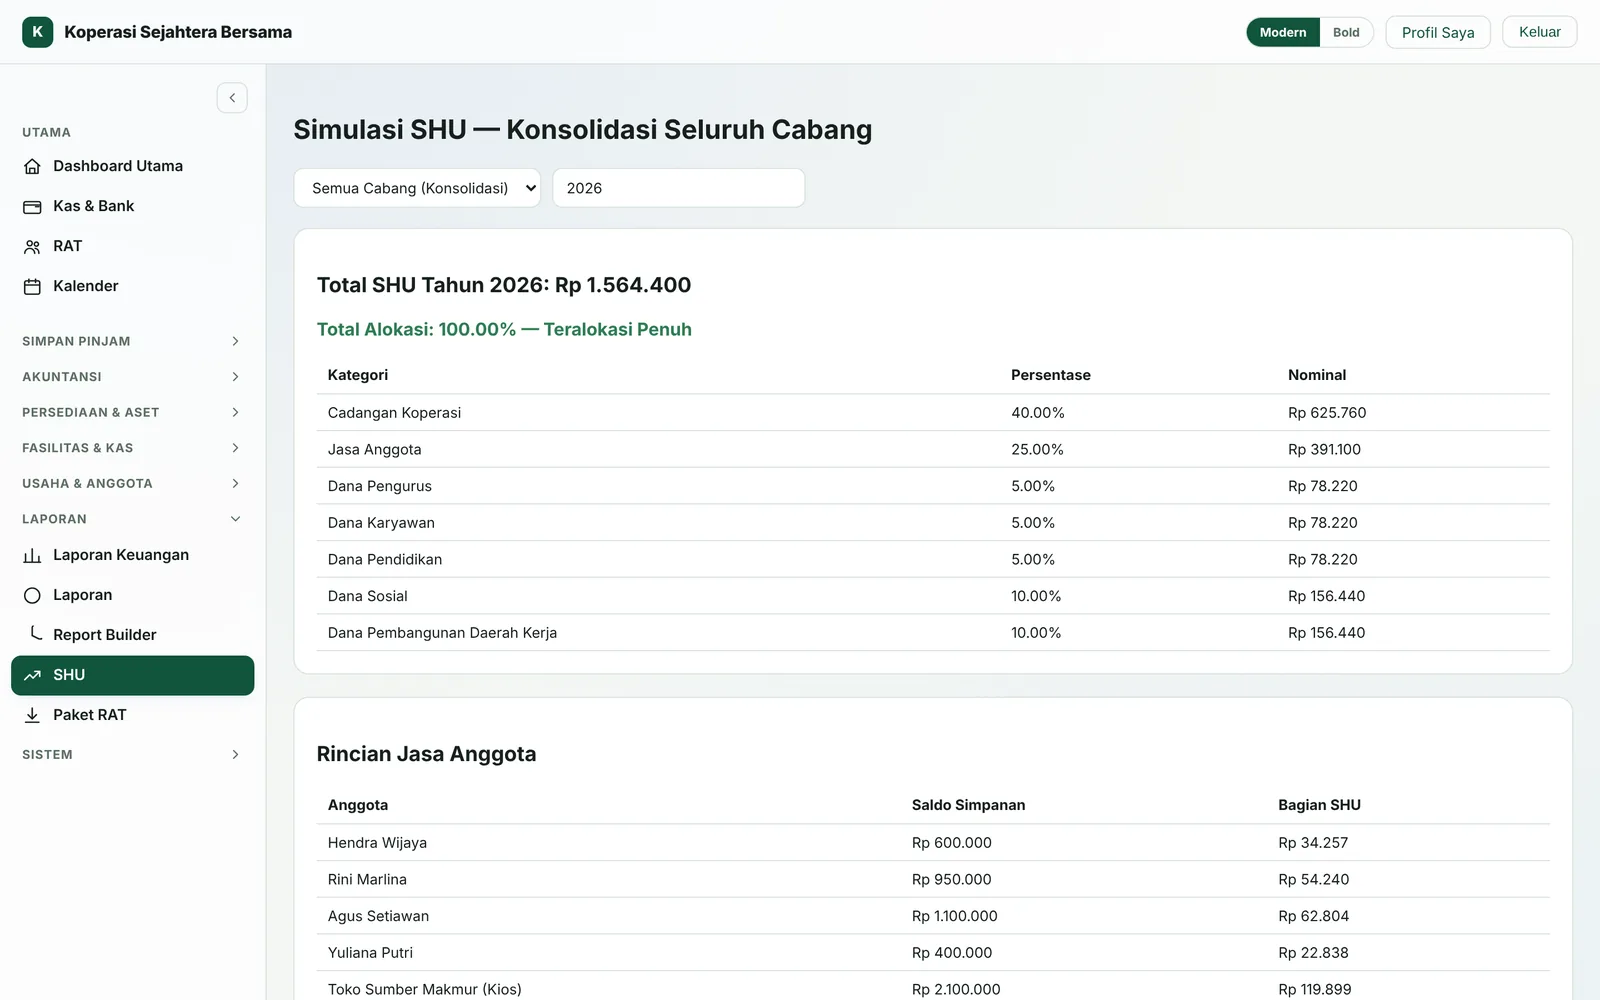
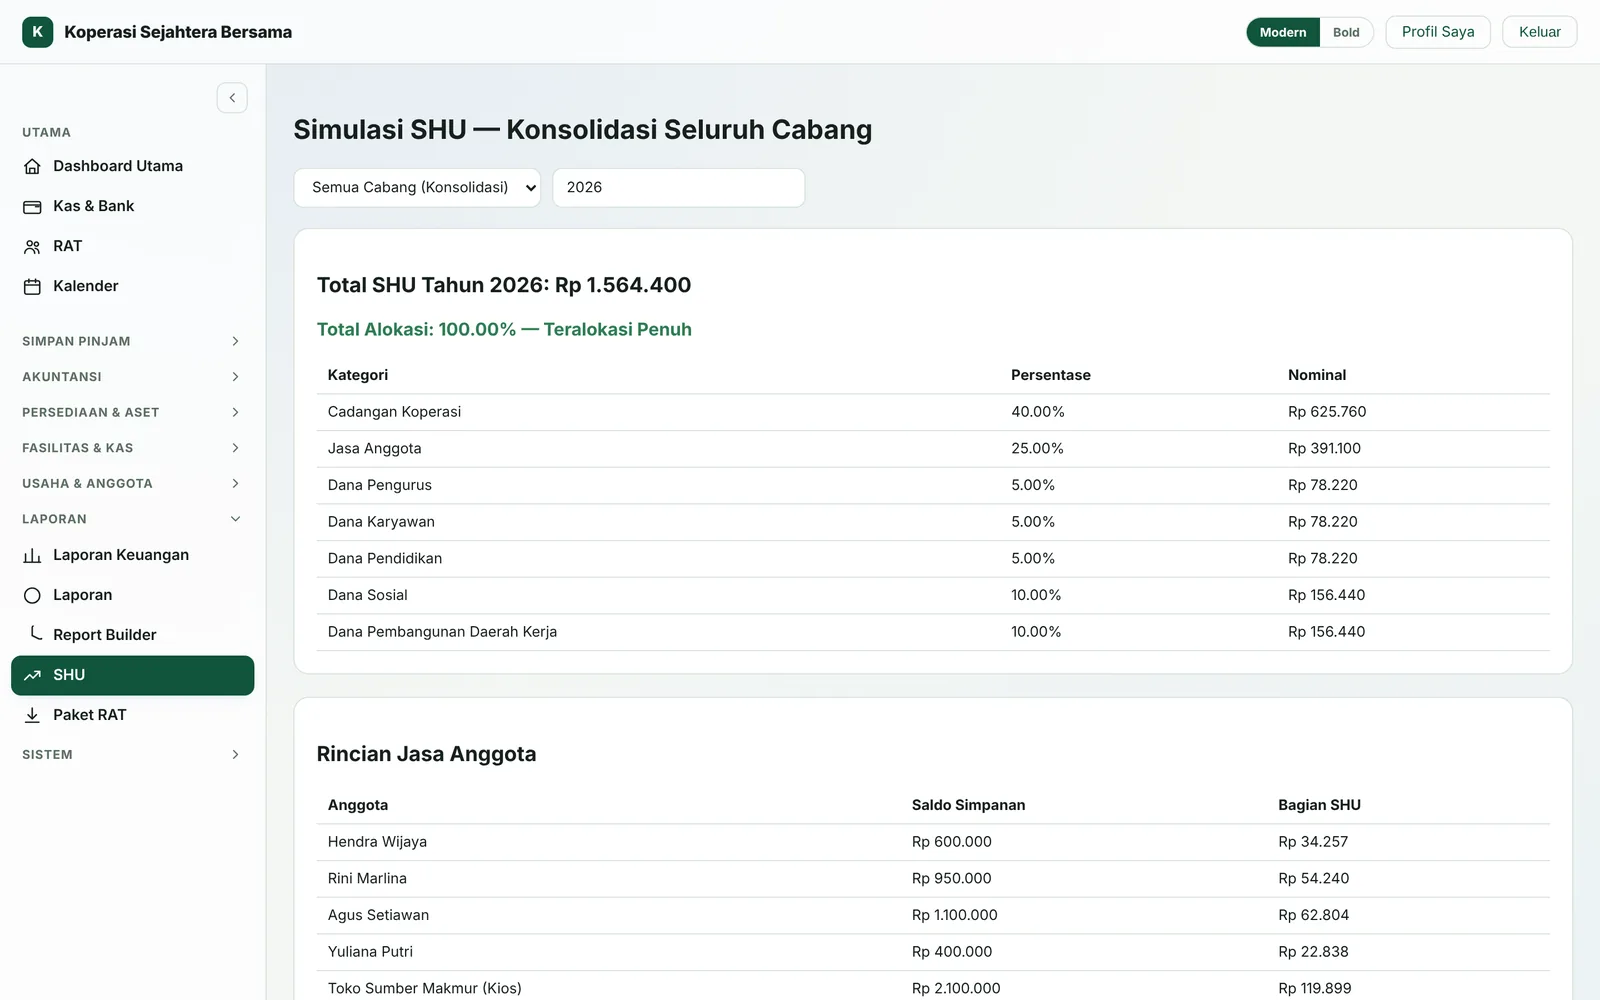
Landing page: fokus SEO ke 'aplikasi koperasi simpan pinjam berbasis website'
Judul, H1, meta, Open Graph, JSON-LD dan FAQ diarahkan ke kata kunci
utama. Tangkapan layar diambil ulang tanpa footer merek aplikasi dan
gambar OG diperbarui.

Claude-Session: https://claude.ai/code/session_01KqfbCWw2v6HtJHjvUtXGhR

diff --git a/landing-page/index.html b/landing-page/index.html
@@ -3,9 +3,9 @@
 <head>
 <meta charset="utf-8">
 <meta name="viewport" content="width=device-width, initial-scale=1">
-<title>Aplikasi Koperasi Simpan Pinjam &amp; Serba Usaha | Semesta Teknologi Utama</title>
-<meta name="description" content="Aplikasi koperasi simpan pinjam (KSP) dan serba usaha berbasis web: simpanan, pinjaman &amp; angsuran, kasir POS, akuntansi otomatis, SHU, paket RAT, portal anggota online dan notifikasi WhatsApp.">
-<meta name="keywords" content="aplikasi koperasi, aplikasi koperasi simpan pinjam, software koperasi, sistem informasi koperasi, aplikasi KSP, aplikasi koperasi serba usaha, aplikasi akuntansi koperasi, aplikasi SHU koperasi, aplikasi RAT koperasi, aplikasi koperasi online">
+<title>Aplikasi Koperasi Simpan Pinjam Berbasis Website &amp; Online</title>
+<meta name="description" content="Aplikasi koperasi simpan pinjam berbasis website untuk KSP dan koperasi serba usaha: simpanan, pinjaman &amp; angsuran, kasir POS, akuntansi otomatis, SHU, RAT, dan portal anggota online. Cukup buka di browser.">
+<meta name="keywords" content="aplikasi koperasi simpan pinjam, aplikasi koperasi simpan pinjam website, aplikasi koperasi simpan pinjam berbasis web, aplikasi koperasi simpan pinjam berbasis website, aplikasi koperasi simpan pinjam online, software koperasi simpan pinjam, sistem informasi koperasi simpan pinjam berbasis web, aplikasi koperasi, software koperasi, sistem informasi koperasi, aplikasi KSP, aplikasi koperasi serba usaha, aplikasi akuntansi koperasi, aplikasi SHU koperasi, aplikasi RAT koperasi, aplikasi koperasi online">
 <meta name="robots" content="index, follow, max-image-preview:large, max-snippet:-1, max-video-preview:-1">
 <meta name="googlebot" content="index, follow">
 <meta name="author" content="Semesta Teknologi Utama">
@@ -18,17 +18,17 @@
 
 <meta property="og:type" content="website">
 <meta property="og:locale" content="id_ID">
-<meta property="og:site_name" content="Aplikasi Koperasi Simpan Pinjam">
-<meta property="og:title" content="Aplikasi Koperasi Simpan Pinjam &amp; Serba Usaha">
-<meta property="og:description" content="Kelola simpanan, pinjaman, kasir unit usaha, akuntansi, SHU dan RAT koperasi dalam satu aplikasi web. Anggota bisa cek saldo dan ajukan pinjaman online.">
+<meta property="og:site_name" content="Aplikasi Koperasi Simpan Pinjam Berbasis Website">
+<meta property="og:title" content="Aplikasi Koperasi Simpan Pinjam Berbasis Website">
+<meta property="og:description" content="Aplikasi koperasi simpan pinjam berbasis website: kelola simpanan, pinjaman, kasir unit usaha, akuntansi, SHU dan RAT. Anggota bisa cek saldo dan ajukan pinjaman online.">
 <meta property="og:url" content="https://aplikasikoperasisimpanpinjam.semestateknologiutama.com/">
 <meta property="og:image" content="https://aplikasikoperasisimpanpinjam.semestateknologiutama.com/og-image.png">
 <meta property="og:image:width" content="1200">
 <meta property="og:image:height" content="630">
-<meta property="og:image:alt" content="Aplikasi Koperasi Simpan Pinjam &amp; Serba Usaha">
+<meta property="og:image:alt" content="Aplikasi Koperasi Simpan Pinjam Berbasis Website">
 <meta name="twitter:card" content="summary_large_image">
-<meta name="twitter:title" content="Aplikasi Koperasi Simpan Pinjam &amp; Serba Usaha">
-<meta name="twitter:description" content="Simpanan, pinjaman, POS unit usaha, akuntansi, SHU dan RAT koperasi dalam satu aplikasi web.">
+<meta name="twitter:title" content="Aplikasi Koperasi Simpan Pinjam Berbasis Website">
+<meta name="twitter:description" content="Aplikasi koperasi simpan pinjam berbasis website: simpanan, pinjaman, POS unit usaha, akuntansi, SHU dan RAT dalam satu aplikasi.">
 <meta name="twitter:image" content="https://aplikasikoperasisimpanpinjam.semestateknologiutama.com/og-image.png">
 
 <link rel="icon" href="/favicon.svg" type="image/svg+xml">
@@ -61,13 +61,13 @@
       "@type": "WebSite",
       "@id": "https://aplikasikoperasisimpanpinjam.semestateknologiutama.com/#website",
       "url": "https://aplikasikoperasisimpanpinjam.semestateknologiutama.com/",
-      "name": "Aplikasi Koperasi Simpan Pinjam & Serba Usaha",
+      "name": "Aplikasi Koperasi Simpan Pinjam Berbasis Website",
       "inLanguage": "id-ID",
       "publisher": {"@id": "https://semestateknologiutama.com/#organization"}
     },
     {
       "@type": "SoftwareApplication",
-      "name": "Aplikasi Koperasi Simpan Pinjam & Serba Usaha",
+      "name": "Aplikasi Koperasi Simpan Pinjam Berbasis Website",
       "applicationCategory": "BusinessApplication",
       "applicationSubCategory": "Sistem Informasi Koperasi",
       "operatingSystem": "Web browser",
@@ -80,7 +80,7 @@
         "https://aplikasikoperasisimpanpinjam.semestateknologiutama.com/img/shu.webp",
         "https://aplikasikoperasisimpanpinjam.semestateknologiutama.com/img/pos.webp"
       ],
-      "description": "Aplikasi koperasi simpan pinjam dan serba usaha berbasis web untuk mengelola simpanan, pinjaman, angsuran, kasir POS unit usaha, akuntansi, SHU, RAT dan portal anggota.",
+      "description": "Aplikasi koperasi simpan pinjam berbasis website untuk KSP dan koperasi serba usaha, untuk mengelola simpanan, pinjaman, angsuran, kasir POS unit usaha, akuntansi, SHU, RAT dan portal anggota.",
       "featureList": [
         "Manajemen anggota dan kartu anggota",
         "Simpanan pokok, wajib dan sukarela",
@@ -100,6 +100,8 @@
     {
       "@type": "FAQPage",
       "mainEntity": [
+        {"@type": "Question", "name": "Apa itu aplikasi koperasi simpan pinjam berbasis website?",
+         "acceptedAnswer": {"@type": "Answer", "text": "Aplikasi koperasi simpan pinjam berbasis website adalah sistem pengelolaan koperasi yang dijalankan di server atau hosting dan diakses lewat browser, tanpa perlu memasang program di setiap komputer. Pengurus, teller, kasir, dan anggota cukup login dari browser untuk mencatat simpanan, pinjaman, angsuran, penjualan unit usaha, hingga menyusun laporan keuangan dan SHU."}},
         {"@type": "Question", "name": "Apakah aplikasi ini bisa dipakai koperasi serba usaha (KSU)?",
          "acceptedAnswer": {"@type": "Answer", "text": "Bisa. Selain modul simpan pinjam, aplikasi memiliki modul unit usaha: kasir POS, stok barang, pembelian ke supplier, retur dan laporan persediaan. Semua transaksi unit usaha otomatis tercatat ke jurnal akuntansi koperasi."}},
         {"@type": "Question", "name": "Apakah perlu memasang aplikasi di komputer?",
@@ -152,14 +154,15 @@ header.top{position:sticky;top:0;z-index:50;background:rgba(6,57,42,.92);backdro
 .nav ul a:hover{color:#fff}
 .nav .btn{padding:10px 18px;font-size:14px}
 @media (max-width:900px){.nav ul{display:none}}
-@media (max-width:480px){.nav .btn span{display:none}.nav .btn{padding:10px 12px}}
+@media (max-width:480px){.nav .btn span{display:none}.nav .btn{padding:10px 12px}.logo{font-size:14.5px}.logo-mark{width:34px;height:34px}}
 
 /* hero */
 .hero{background:radial-gradient(1200px 500px at 85% -10%,rgba(242,177,52,.18),transparent 60%),linear-gradient(160deg,var(--green-900),var(--green-700) 70%,var(--green-600));color:#fff;padding:72px 0 96px;overflow:hidden}
 .hero-grid{display:grid;grid-template-columns:.95fr 1.1fr;gap:48px;align-items:center}
 .eyebrow{display:inline-flex;align-items:center;gap:8px;background:rgba(255,255,255,.1);border:1px solid rgba(255,255,255,.2);padding:6px 14px;border-radius:999px;font-size:13px;font-weight:600;color:#e5f5ee;margin-bottom:22px}
 .eyebrow i{width:8px;height:8px;border-radius:50%;background:var(--gold);display:block}
-.hero h1{font-size:clamp(32px,4.6vw,52px);line-height:1.12;font-weight:800;letter-spacing:-.02em;margin-bottom:20px}
+.hero h1{font-size:clamp(32px,4.4vw,52px);line-height:1.1;font-weight:800;letter-spacing:-.02em;margin-bottom:14px}
+.hero .tagline{font-size:clamp(19px,2vw,24px);font-weight:700;color:#fff;margin-bottom:16px}
 .hero h1 em{font-style:normal;color:var(--gold)}
 .hero p.lead{font-size:clamp(16px,1.6vw,19px);color:#d3ece1;max-width:560px;margin-bottom:32px}
 .hero .ctas{display:flex;gap:14px;flex-wrap:wrap}
@@ -285,9 +288,9 @@ footer{background:var(--green-900);color:#a9cfbf;padding:48px 0 28px;font-size:1
 
 <header class="top">
   <div class="wrap nav">
-    <a class="logo" href="/" aria-label="Beranda Aplikasi Koperasi Simpan Pinjam">
+    <a class="logo" href="/" aria-label="Beranda Aplikasi Koperasi Simpan Pinjam Berbasis Website">
       <svg class="logo-mark" viewBox="0 0 40 40" aria-hidden="true"><rect width="40" height="40" rx="10" fill="#0f8a63"/><path d="M20 8 9 14v2h22v-2L20 8Z" fill="#f2b134"/><path d="M12 18h3v10h-3zM18.5 18h3v10h-3zM25 18h3v10h-3z" fill="#fff"/><rect x="9" y="29" width="22" height="3" rx="1" fill="#f2b134"/></svg>
-      <span>Aplikasi Koperasi<small>Simpan Pinjam &amp; Serba Usaha</small></span>
+      <span>Aplikasi Koperasi Simpan Pinjam<small>Berbasis Website</small></span>
     </a>
     <nav aria-label="Navigasi utama">
       <ul>
@@ -307,9 +310,10 @@ footer{background:var(--green-900);color:#a9cfbf;padding:48px 0 28px;font-size:1
 <section class="hero" aria-labelledby="judul">
   <div class="wrap hero-grid">
     <div>
-      <span class="eyebrow"><i></i>Sistem informasi koperasi berbasis web</span>
-      <h1 id="judul">Aplikasi Koperasi Simpan Pinjam &amp; Serba Usaha yang <em>rapi, transparan,</em> dan siap RAT</h1>
-      <p class="lead">Satu aplikasi untuk mengelola anggota, simpanan, pinjaman dan angsuran, kasir unit usaha, hingga jurnal akuntansi, SHU, dan laporan RAT. Pengurus bekerja lebih cepat, anggota bisa cek saldo dan ajukan pinjaman secara online melalui portal anggota.</p>
+      <span class="eyebrow"><i></i>Untuk KSP &amp; koperasi serba usaha</span>
+      <h1 id="judul">Aplikasi Koperasi Simpan Pinjam <em>Berbasis Website</em></h1>
+      <p class="tagline">Rapi, transparan, dan siap RAT.</p>
+      <p class="lead">Cukup buka di browser, tanpa instal. Satu aplikasi untuk mengelola anggota, simpanan, pinjaman dan angsuran, kasir unit usaha, hingga jurnal akuntansi, SHU, dan laporan RAT. Pengurus bekerja lebih cepat, anggota bisa cek saldo dan ajukan pinjaman secara online melalui portal anggota.</p>
       <div class="ctas">
         <a class="btn btn-primary" href="https://wa.me/628128195542?text=Halo%2C%20saya%20ingin%20jadwalkan%20demo%20Aplikasi%20Koperasi%20Simpan%20Pinjam" target="_blank" rel="noopener"><svg aria-hidden="true"><use href="#i-wa"/></svg>Jadwalkan Demo Gratis</a>
         <a class="btn btn-ghost" href="#fitur">Lihat Fitur</a>
@@ -348,7 +352,7 @@ footer{background:var(--green-900);color:#a9cfbf;padding:48px 0 28px;font-size:1
   <div class="wrap">
     <div class="sec-head">
       <span class="kicker">Fitur lengkap</span>
-      <h2 id="fitur-h">Semua kebutuhan koperasi simpan pinjam dan serba usaha dalam satu aplikasi</h2>
+      <h2 id="fitur-h">Fitur aplikasi koperasi simpan pinjam yang lengkap dalam satu website</h2>
       <p>Dirancang mengikuti alur kerja koperasi di Indonesia, dari pendaftaran anggota sampai Rapat Anggota Tahunan.</p>
     </div>
     <div class="features">
@@ -444,7 +448,7 @@ footer{background:var(--green-900);color:#a9cfbf;padding:48px 0 28px;font-size:1
   <div class="wrap">
     <div class="sec-head">
       <span class="kicker">Tampilan aplikasi</span>
-      <h2 id="tampil-h">Lihat langsung layar aplikasinya</h2>
+      <h2 id="tampil-h">Tampilan aplikasi koperasi simpan pinjam berbasis website</h2>
       <p>Tangkapan layar asli dari aplikasi dengan data demo. Klik gambar untuk memperbesar.</p>
     </div>
     <div class="gallery">
@@ -511,7 +515,8 @@ footer{background:var(--green-900);color:#a9cfbf;padding:48px 0 28px;font-size:1
       <h2 id="faq-h">Pertanyaan yang sering diajukan</h2>
     </div>
     <div class="faq">
-      <details open><summary>Apakah aplikasi ini bisa dipakai koperasi serba usaha (KSU)?</summary><p>Bisa. Selain modul simpan pinjam, aplikasi memiliki modul unit usaha: kasir POS, stok barang, pembelian ke supplier, retur dan laporan persediaan. Semua transaksi unit usaha otomatis tercatat ke jurnal akuntansi koperasi.</p></details>
+      <details open><summary>Apa itu aplikasi koperasi simpan pinjam berbasis website?</summary><p>Aplikasi koperasi simpan pinjam berbasis website adalah sistem pengelolaan koperasi yang dijalankan di server atau hosting dan diakses lewat browser, tanpa perlu memasang program di setiap komputer. Pengurus, teller, kasir, dan anggota cukup login dari browser untuk mencatat simpanan, pinjaman, angsuran, penjualan unit usaha, hingga menyusun laporan keuangan dan SHU.</p></details>
+      <details><summary>Apakah aplikasi ini bisa dipakai koperasi serba usaha (KSU)?</summary><p>Bisa. Selain modul simpan pinjam, aplikasi memiliki modul unit usaha: kasir POS, stok barang, pembelian ke supplier, retur dan laporan persediaan. Semua transaksi unit usaha otomatis tercatat ke jurnal akuntansi koperasi.</p></details>
       <details><summary>Apakah perlu memasang aplikasi di komputer?</summary><p>Tidak. Aplikasi berbasis web dan cukup dibuka melalui browser. Anggota punya portal sendiri untuk melihat saldo simpanan, sisa pinjaman, jadwal angsuran, mengajukan pinjaman, setoran dan penarikan simpanan.</p></details>
       <details><summary>Bagaimana dengan data lama koperasi kami?</summary><p>Tersedia fitur saldo awal untuk memindahkan data lama: saldo akun, simpanan, pinjaman berjalan beserta sisa angsuran, dan stok barang, sehingga koperasi bisa langsung mulai dari posisi terakhir.</p></details>
       <details><summary>Apakah SHU dan laporan RAT dihitung otomatis?</summary><p>Ya. Pembagian SHU dihitung berdasarkan kategori alokasi yang Anda atur, dan paket dokumen RAT beserta laporan keuangan (neraca, laba rugi/SHU, arus kas) dapat diunduh dalam format PDF dan Excel.</p></details>
@@ -538,7 +543,7 @@ footer{background:var(--green-900);color:#a9cfbf;padding:48px 0 28px;font-size:1
   <div class="wrap">
     <div class="foot">
       <div>
-        <h4>Aplikasi Koperasi Simpan Pinjam &amp; Serba Usaha</h4>
+        <h4>Aplikasi Koperasi Simpan Pinjam Berbasis Website</h4>
         <p>Sistem informasi koperasi berbasis web untuk KSP, KSU, dan koperasi karyawan. Dikembangkan oleh <a href="https://semestateknologiutama.com/">Semesta Teknologi Utama</a>.</p>
       </div>
       <div>
